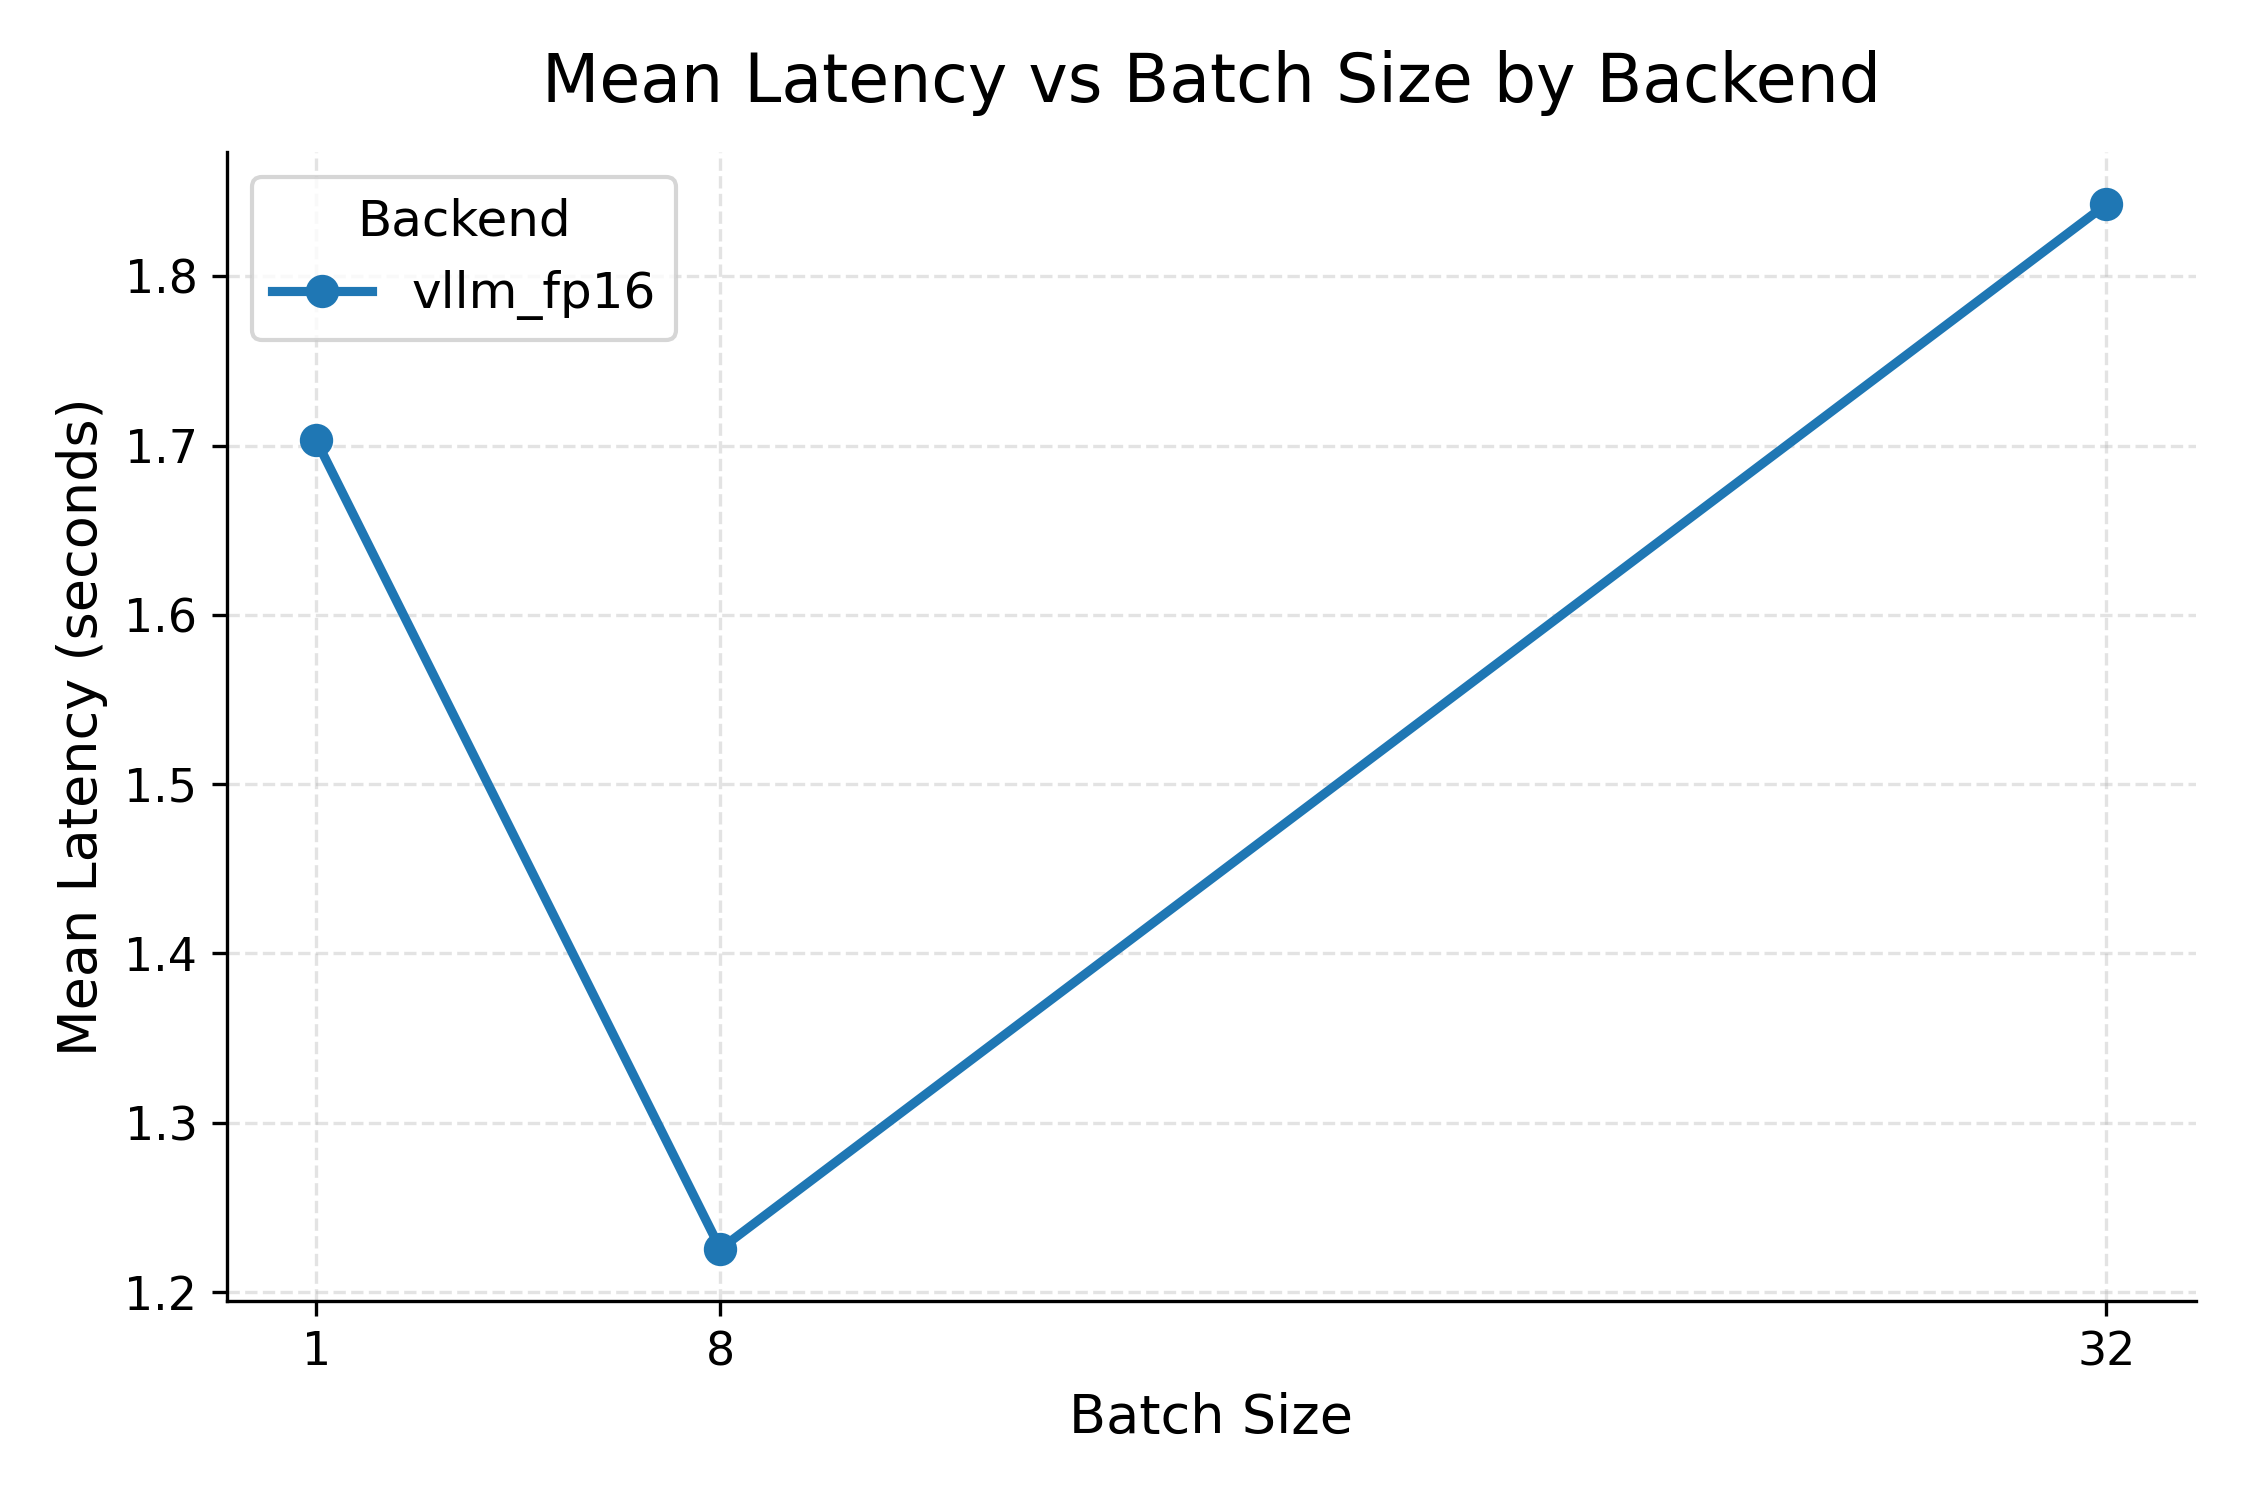
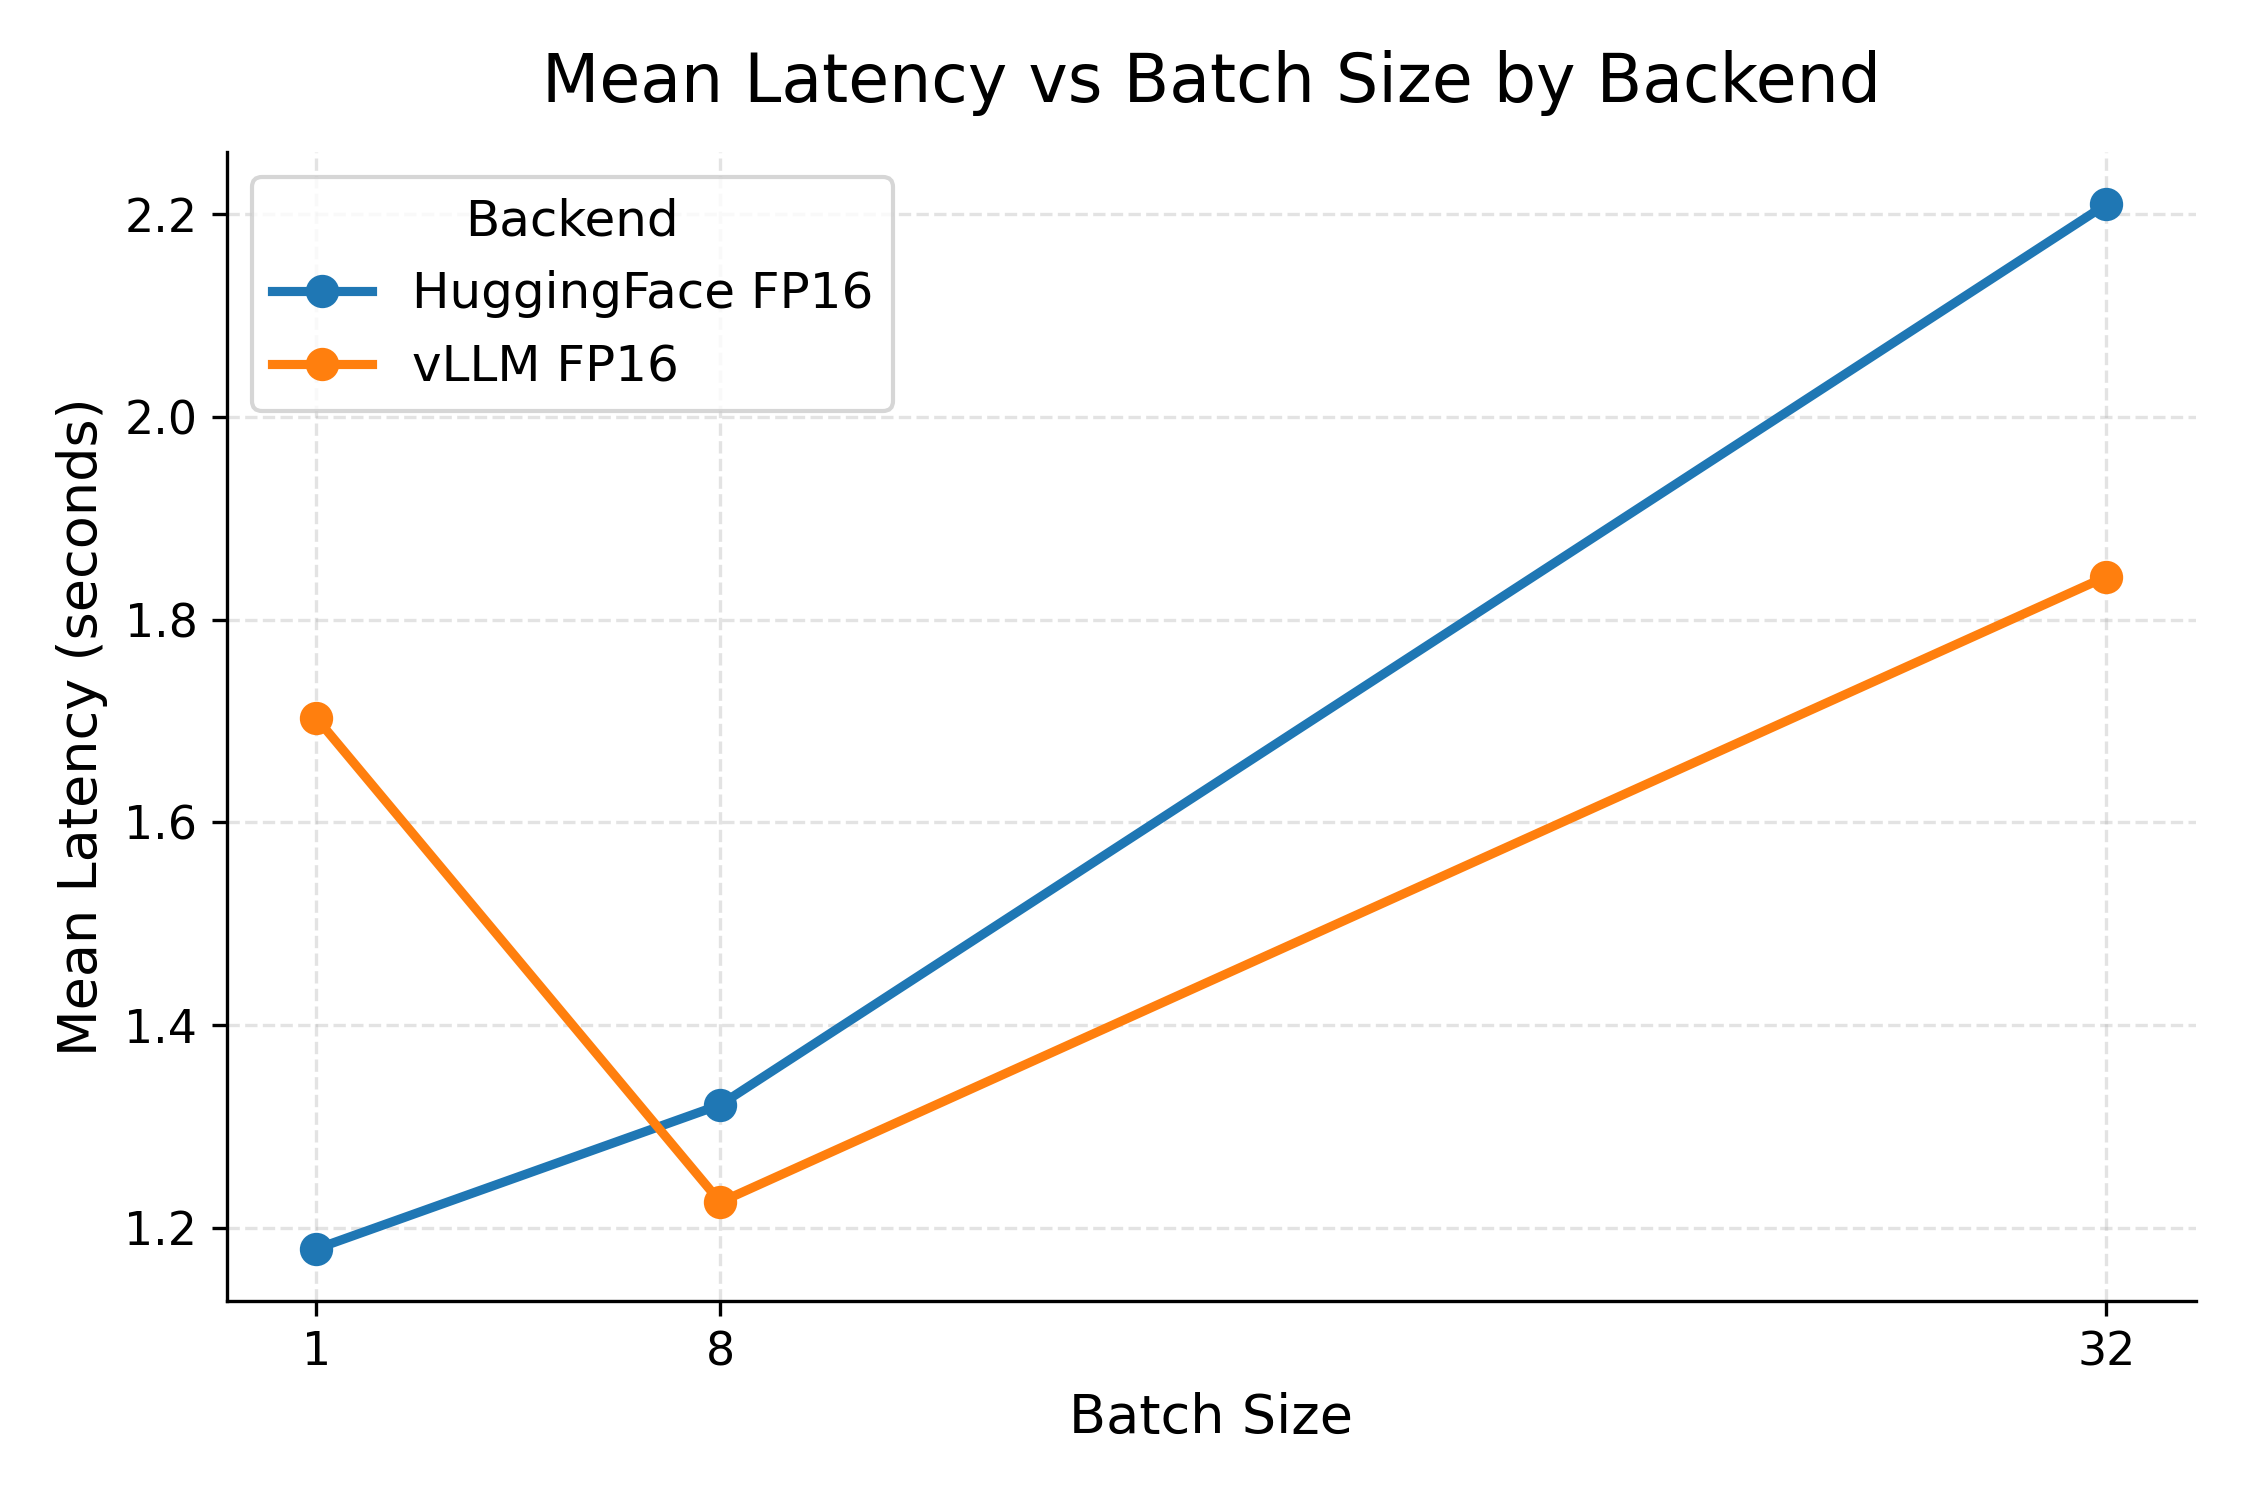
feat: add backend plotting script

diff --git a/scripts/plot_backend_results.py b/scripts/plot_backend_results.py
@@ -1,0 +1,212 @@
+"""Generate backend comparison plots from Transformers and vLLM CSV outputs."""
+
+from __future__ import annotations
+
+import os
+import tempfile
+from pathlib import Path
+
+import pandas as pd
+
+
+OUTPUT_DIR = Path("outputs")
+PLOT_CACHE_DIR = Path(tempfile.gettempdir()) / "llm-inference-bench-plot-cache"
+MATPLOTLIB_CACHE_DIR = PLOT_CACHE_DIR / "matplotlib"
+XDG_CACHE_DIR = PLOT_CACHE_DIR / "xdg"
+MATPLOTLIB_CACHE_DIR.mkdir(parents=True, exist_ok=True)
+XDG_CACHE_DIR.mkdir(parents=True, exist_ok=True)
+os.environ.setdefault("MPLCONFIGDIR", str(MATPLOTLIB_CACHE_DIR))
+os.environ.setdefault("XDG_CACHE_HOME", str(XDG_CACHE_DIR))
+
+import matplotlib
+
+matplotlib.use("Agg")
+import matplotlib.pyplot as plt
+
+
+BATCH_SIZES = [1, 8, 32]
+BACKENDS = ["transformers_fp16", "vllm_fp16"]
+BACKEND_LABELS = {
+    "transformers_fp16": "HuggingFace FP16",
+    "vllm_fp16": "vLLM FP16",
+}
+
+TRANSFORMERS_INPUT_FILES = [
+    OUTPUT_DIR / f"fp16_batch{batch_size}.csv" for batch_size in BATCH_SIZES
+]
+VLLM_INPUT_FILES = [
+    OUTPUT_DIR / f"vllm_fp16_batch{batch_size}.csv" for batch_size in BATCH_SIZES
+]
+INPUT_FILES = TRANSFORMERS_INPUT_FILES + VLLM_INPUT_FILES
+AGGREGATED_OUTPUT = OUTPUT_DIR / "backend_aggregated_metrics.csv"
+
+REQUIRED_COLUMNS = {
+    "batch_size",
+    "latency_seconds",
+    "throughput_tokens_per_sec",
+}
+
+
+def infer_backend_from_path(path: Path) -> str:
+    if path.name.startswith("vllm_fp16_"):
+        return "vllm_fp16"
+    if path.name.startswith("fp16_"):
+        return "transformers_fp16"
+    return "unknown"
+
+
+def load_results(paths: list[Path]) -> pd.DataFrame:
+    """Load backend CSVs and validate the expected metric columns."""
+    existing_paths = [path for path in paths if path.exists()]
+    if not existing_paths:
+        formatted = ", ".join(str(path) for path in paths)
+        raise FileNotFoundError(f"No backend CSV files found. Expected: {formatted}")
+
+    frames = []
+    for path in existing_paths:
+        frame = pd.read_csv(path)
+        frame["backend"] = infer_backend_from_path(path)
+        frames.append(frame)
+
+    results = pd.concat(frames, ignore_index=True)
+    missing_columns = REQUIRED_COLUMNS.difference(results.columns)
+    if missing_columns:
+        formatted = ", ".join(sorted(missing_columns))
+        raise ValueError(f"Backend CSVs are missing required column(s): {formatted}")
+
+    present_backends = set(results["backend"].unique())
+    missing_backends = set(BACKENDS).difference(present_backends)
+    if missing_backends:
+        formatted = ", ".join(sorted(missing_backends))
+        raise FileNotFoundError(
+            f"Missing backend results for: {formatted}. "
+            "Expected HuggingFace FP16 and vLLM FP16 CSVs in outputs/."
+        )
+
+    return results
+
+
+def aggregate_metrics(results: pd.DataFrame) -> pd.DataFrame:
+    """Aggregate backend metrics by backend and batch size."""
+    if "gpu_memory_allocated_gb" not in results.columns:
+        results = results.assign(gpu_memory_allocated_gb=0.0)
+    if "gpu_memory_reserved_gb" not in results.columns:
+        results = results.assign(gpu_memory_reserved_gb=0.0)
+
+    aggregated = (
+        results.groupby(["backend", "batch_size"], as_index=False)
+        .agg(
+            mean_latency=("latency_seconds", "mean"),
+            p95_latency=("latency_seconds", lambda values: values.quantile(0.95)),
+            throughput=("throughput_tokens_per_sec", "mean"),
+            max_gpu_memory_allocated_gb=("gpu_memory_allocated_gb", "max"),
+            max_gpu_memory_reserved_gb=("gpu_memory_reserved_gb", "max"),
+        )
+        .sort_values(["backend", "batch_size"])
+        .reset_index(drop=True)
+    )
+    return aggregated
+
+
+def configure_matplotlib() -> None:
+    plt.rcParams.update(
+        {
+            "figure.figsize": (7.5, 5.0),
+            "font.size": 12,
+            "axes.titlesize": 16,
+            "axes.labelsize": 13,
+            "xtick.labelsize": 11,
+            "ytick.labelsize": 11,
+            "axes.grid": True,
+            "grid.alpha": 0.35,
+            "grid.linestyle": "--",
+            "lines.linewidth": 2.2,
+            "lines.markersize": 7,
+        }
+    )
+
+
+def save_backend_plot(
+    aggregated: pd.DataFrame,
+    y_column: str,
+    y_label: str,
+    title: str,
+    output_path: Path,
+) -> None:
+    fig, ax = plt.subplots()
+    for backend in BACKENDS:
+        backend_rows = aggregated[aggregated["backend"] == backend]
+        if backend_rows.empty:
+            continue
+        ax.plot(
+            backend_rows["batch_size"],
+            backend_rows[y_column],
+            marker="o",
+            label=BACKEND_LABELS[backend],
+        )
+
+    ax.set_title(title, pad=12)
+    ax.set_xlabel("Batch Size")
+    ax.set_ylabel(y_label)
+    ax.set_xticks(sorted(aggregated["batch_size"].unique()))
+    ax.legend(title="Backend")
+    ax.spines["top"].set_visible(False)
+    ax.spines["right"].set_visible(False)
+    fig.tight_layout()
+    fig.savefig(output_path, dpi=300)
+    plt.close(fig)
+
+
+def print_summary_table(aggregated: pd.DataFrame) -> None:
+    header = "Backend | Batch Size | Mean Latency | P95 Latency | Throughput | Max Memory"
+    print(f"\n{header}")
+    print("-" * len(header))
+    for row in aggregated.itertuples(index=False):
+        print(
+            f"{row.backend:>16} | "
+            f"{int(row.batch_size):>10} | "
+            f"{row.mean_latency:>12.4f} | "
+            f"{row.p95_latency:>11.4f} | "
+            f"{row.throughput:>10.4f} | "
+            f"{row.max_gpu_memory_allocated_gb:>10.4f}"
+        )
+
+
+def main() -> int:
+    OUTPUT_DIR.mkdir(parents=True, exist_ok=True)
+    configure_matplotlib()
+
+    results = load_results(INPUT_FILES)
+    aggregated = aggregate_metrics(results)
+    aggregated.to_csv(AGGREGATED_OUTPUT, index=False)
+
+    save_backend_plot(
+        aggregated=aggregated,
+        y_column="mean_latency",
+        y_label="Mean Latency (seconds)",
+        title="Mean Latency vs Batch Size by Backend",
+        output_path=OUTPUT_DIR / "backend_latency_vs_batch.png",
+    )
+    save_backend_plot(
+        aggregated=aggregated,
+        y_column="throughput",
+        y_label="Mean Throughput (tokens/sec)",
+        title="Throughput vs Batch Size by Backend",
+        output_path=OUTPUT_DIR / "backend_throughput_vs_batch.png",
+    )
+    save_backend_plot(
+        aggregated=aggregated,
+        y_column="max_gpu_memory_allocated_gb",
+        y_label="Max GPU Memory Allocated (GB)",
+        title="GPU Memory vs Batch Size by Backend",
+        output_path=OUTPUT_DIR / "backend_memory_vs_batch.png",
+    )
+
+    print_summary_table(aggregated)
+    print(f"\nSaved aggregated metrics to {AGGREGATED_OUTPUT}")
+    print(f"Saved backend plots to {OUTPUT_DIR}")
+    return 0
+
+
+if __name__ == "__main__":
+    raise SystemExit(main())
